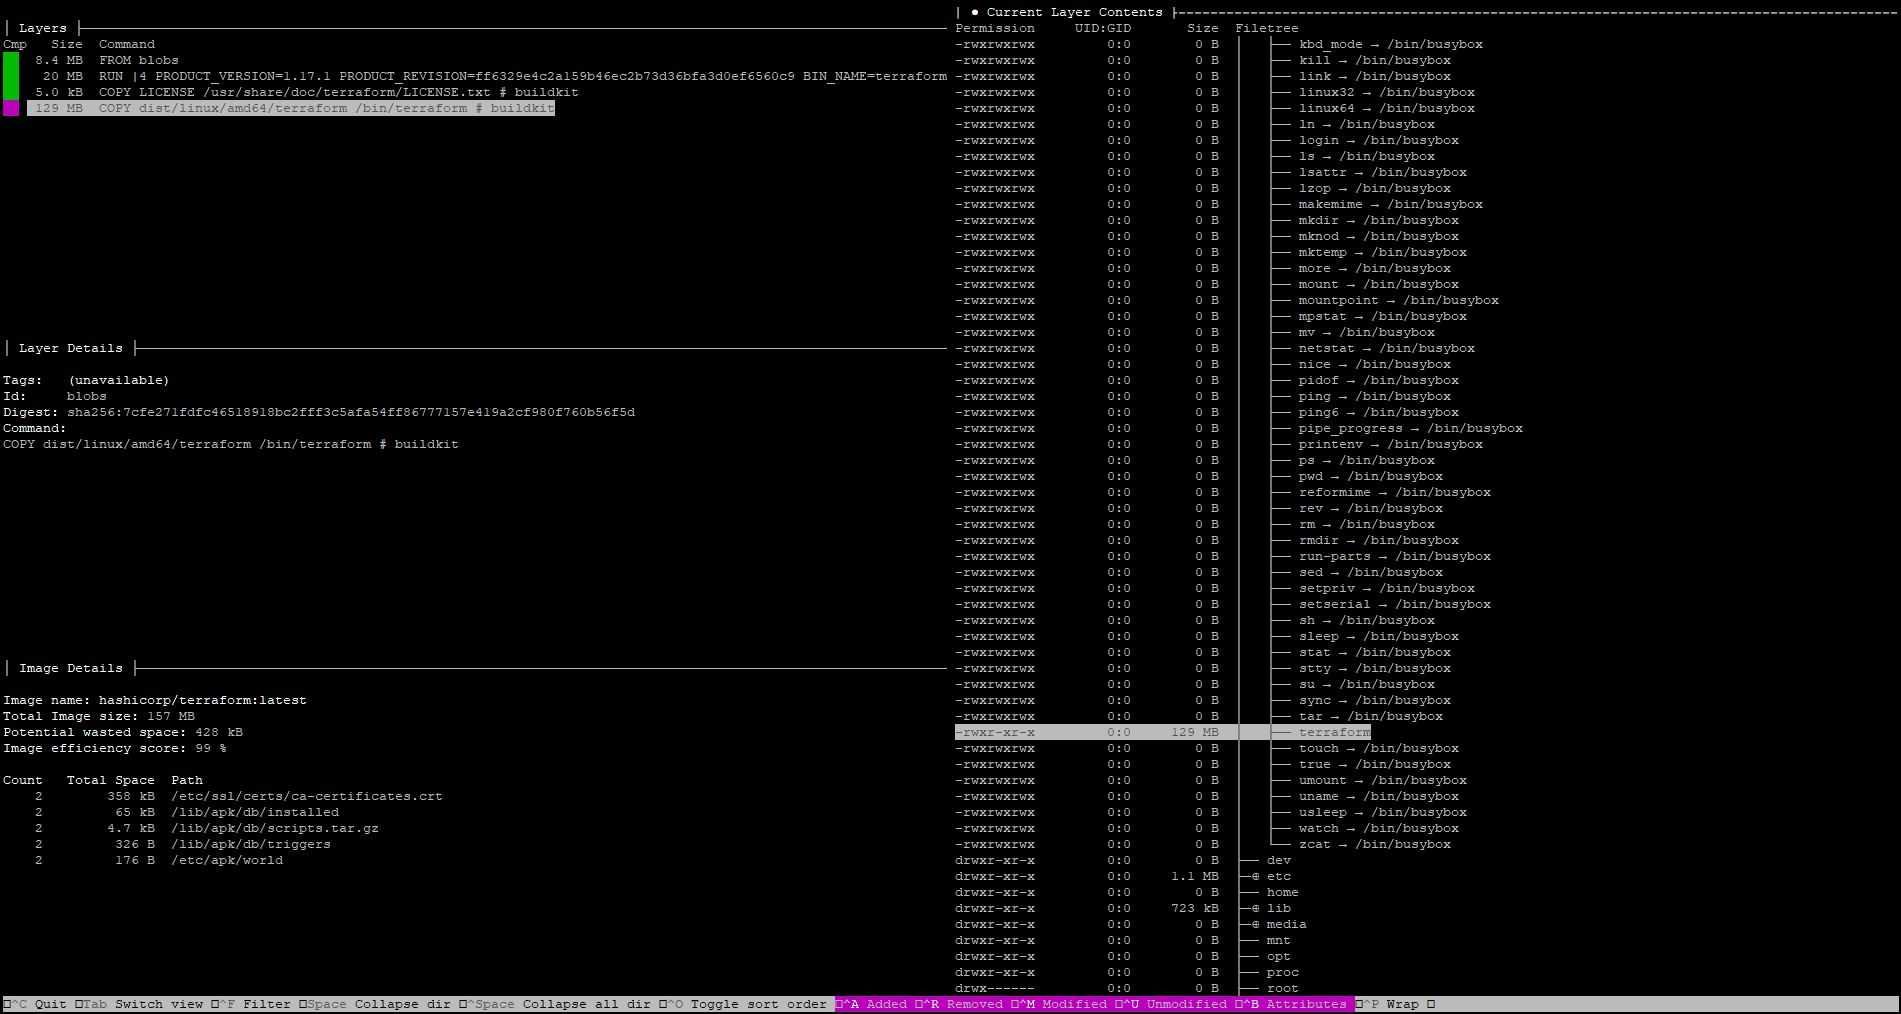
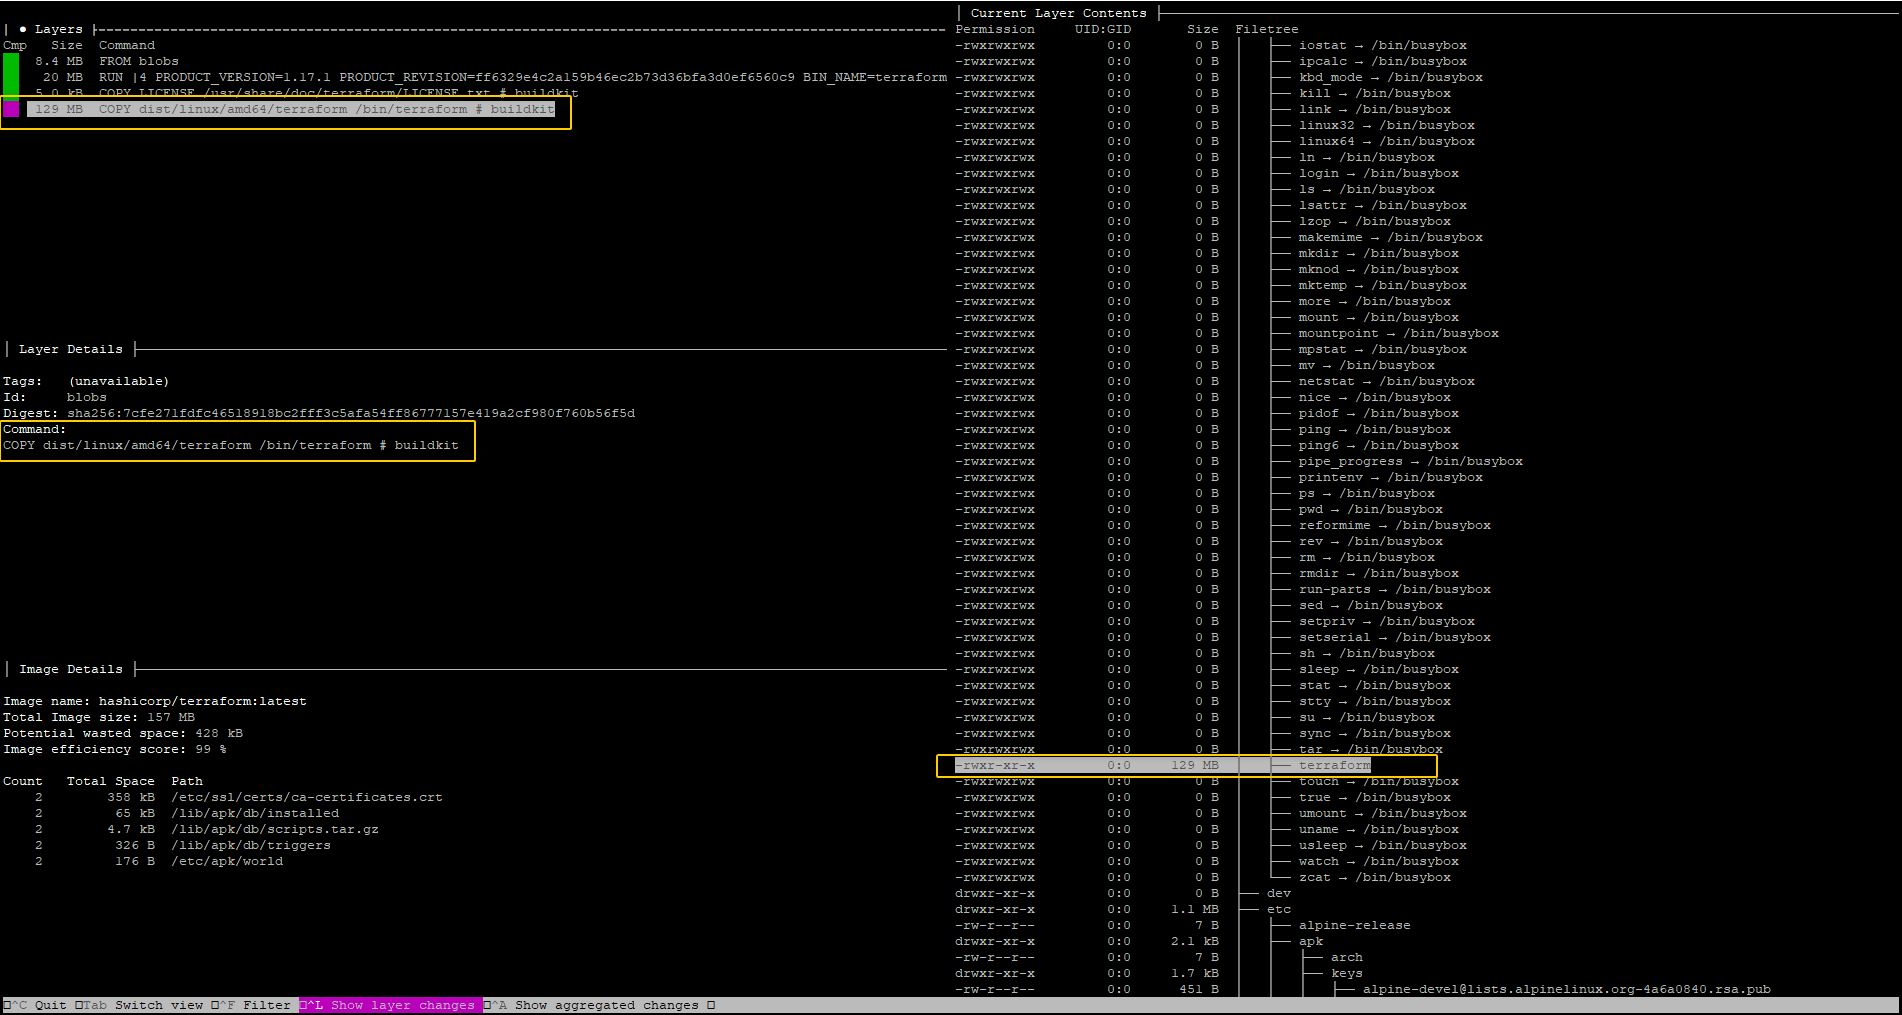
Finish fiz homework

diff --git a/HomeWork.md b/HomeWork.md
@@ -99,17 +99,63 @@ See 'snap info docker' for additional versions.
 
 Ранее я удалил .env файл и deploy.sh и добавил из в .gitignore, так как в .env файлах содержаться секреты, которые недопустимо выставлять в открытый доступ, и вынес создания   .env в deploy.sh, но в нем так же содержатся секреты, поэтому было принято решение вынести скрипт deploy.sh за пределы самого форка на другой сервис. Сейчас с наличием .env фалйа в репозитории необходимости в этом нету, блок создания закоментирован.
 
+По сути весь деплой сводится к 2 командам:
+Установка docker compose:
+`curl -fsSL https://get.docker.com | sh`
+Скачивание и запуск скрипта из репозитория:
+`wget -qO deploy.sh https://raw.githubusercontent.com/mhfhfmn/hw-docker_practics/blob/main/deploy.sh && chmod +x deploy.sh && sudo ./deploy.sh`
+
 [deploy скрипт](https://github.com/mhfhfmn/hw-docker_practics/blob/main/deploy.sh)
 ![Скроиншот sql-запроса](https://github.com/mhfhfmn/hw-docker_practics/blob/main/img/task_4.jpg)
 
 ---
-## Задача 5 (*)
-1. Напишите и задеплойте на вашу облачную ВМ bash скрипт, который произведет резервное копирование БД mysql в директорию "/opt/backup" с помощью запуска в сети "backend" контейнера из образа ```schnitzler/mysqldump``` при помощи ```docker run ...``` команды. Подсказка: "документация образа."
-2. Протестируйте ручной запуск
-3. Настройте выполнение скрипта раз в 1 минуту через cron, crontab или systemctl timer. Придумайте способ не светить логин/пароль в git!!
-4. Предоставьте скрипт, cron-task и скриншот с несколькими резервными копиями в "/opt/backup"
 
 ## Задача 6
 Скачайте docker образ ```hashicorp/terraform:latest``` и скопируйте бинарный файл ```/bin/terraform``` на свою локальную машину, используя dive и docker save.
-Предоставьте скриншоты  действий .
+Предоставьте скриншоты действий .
 
+## Решение
+
+С помощью утилиты dive мы можем проанализировать готовый образ, для этого нам сначала необходимо скачать его с репозитория образов, установим утилиту, скачаем образ и выполник команду:
+
+```
+wget https://github.com/wagoodman/dive/releases/download/v0.12.0/dive_0.12.0_linux_amd64.deb
+sudo apt install ./dive_0.12.0_linux_amd64.deb
+docker pull hashicorp/terraform:latest
+dive hashicorp/terraform:latest
+```
+![скриншот dive](https://github.com/mhfhfmn/hw-docker_practics/blob/main/img/task_6_dive.jpg)
+
+На скриншоте утилиты мы можем видеть 4 слоя образа, на самом последнем слое добавляется искомый файл /bin/terraform, эта информация нам пригодится для поиска исполняемого файла.
+
+Далее необходимо выгрузить образ как архив, затем распоковать его и произвести поиск утилитой zgrep выполним команду:
+```
+docker save hashicorp/terraform:latest -o tf.tar
+mkdir tf
+tar -xf tf.tar -C tf
+cd tf
+zgrep -l "bin/terraform" blobs/sha256/*
+```
+![скриншот docker save 1](https://github.com/mhfhfmn/hw-docker_practics/blob/main/img/task_6_docker_save_1.jpg)
+на скриншоте видно 2 совпадения:
+
+```
[2 lines of base64/hex data omitted]
+```
+
+Посмотрим их размеры, больший из них содержит необходимый нам файл:
+```
+ls -lh blobs/sha256/2d664eecf5e7d017570e58c8cec8a8a65adff55b713f5f370bfddd22a0698cb6
+ls -lh blobs/sha256/ee2e0f259e55cf6b05037721ead2793b146517cb68820e0a65982c0b37ee12c2
+```
+![скриншот docker save 2](https://github.com/mhfhfmn/hw-docker_practics/blob/main/img/task_6_docker_save_2.jpg)
+
+Нас интересует blob c хэшем 2d664eecf5e7d017570e58c8cec8a8a65adff55b713f5f370bfddd22a0698cb6
+
+Извлечем из него необходимый файл командой:
+`tar -xf blobs/sha256/2d664eecf5e7d017570e58c8cec8a8a65adff55b713f5f370bfddd22a0698cb6 bin/terraform`
+После выполнения команды в текущем каталоге появится папка bin с искомым файлом.
+
+![скриншот docker save 3](https://github.com/mhfhfmn/hw-docker_practics/blob/main/img/task_6_docker_save_3.jpg)
+Далее необходимо перенести его в необходимое место, например в каталог /bin на локальной машине
